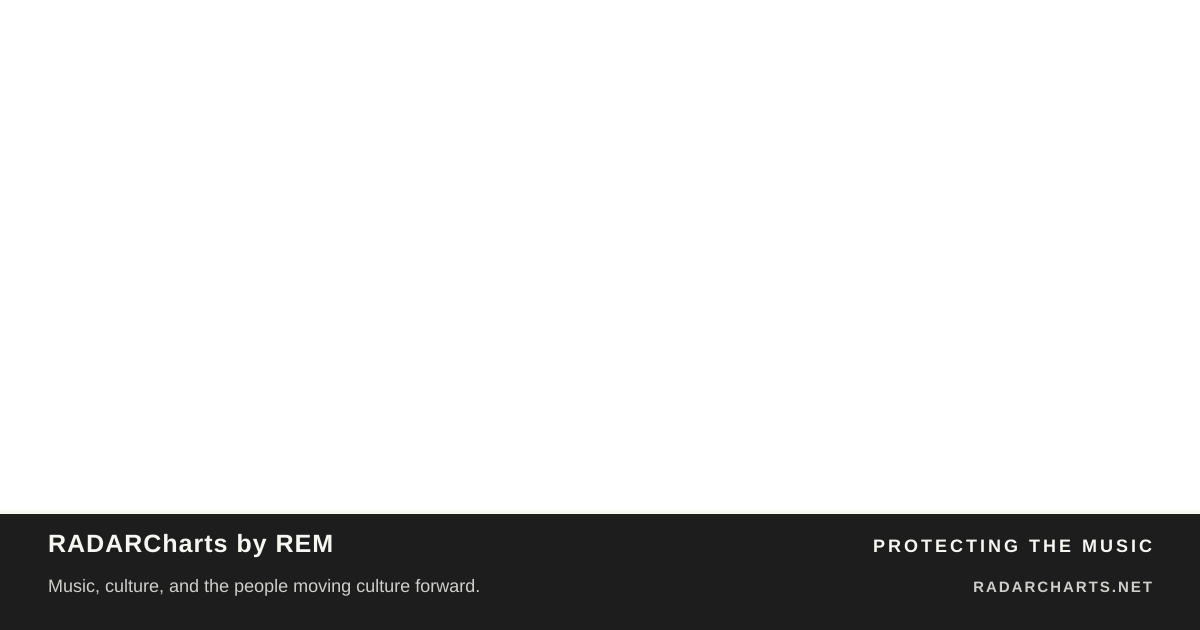
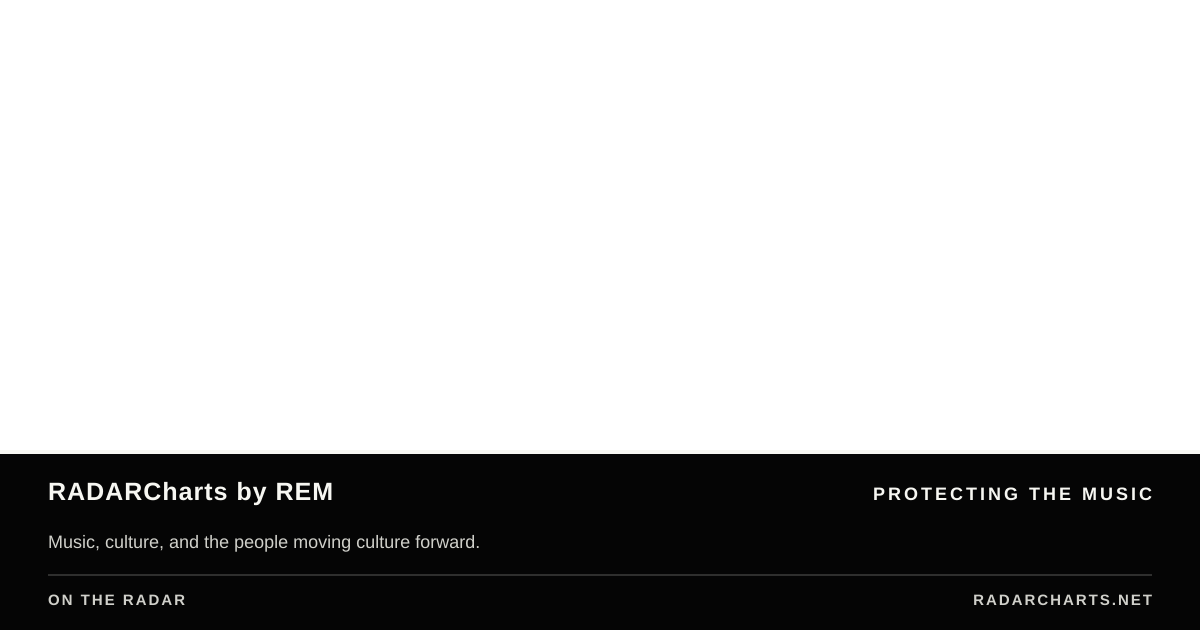
Place RADAR image in social card top panel

diff --git a/SOCIAL_DISTRIBUTION_IMPLEMENTATION.md b/SOCIAL_DISTRIBUTION_IMPLEMENTATION.md
@@ -6,7 +6,7 @@
 - Preview, localhost, WordPress, Supabase, and other unsafe public-host patterns are rejected from production-facing URL resolution.
 - Global Open Graph metadata: title, description, URL, site name, locale, image, dimensions, MIME type, and alt text.
 - X/Twitter metadata: card, title, description, site/creator handle, and image.
-- Social previews use the supplied RADARCharts image as the full 1200×630 background at `/social/radar-background.png`, with a restrained lower information bar only: `RADARCharts by REM`, `PROTECTING THE MUSIC`, the site write-up, and the domain. The editable composite source is `/social/radar-global-card.svg`, and the crawler asset is `/social/radar-global-card.png`. No large title block or migrated WordPress article imagery is used; custom configured social images still take precedence.
+- Social previews use the supplied RADARCharts image as a distinct top image panel at `/social/radar-background.png`, with a separate lower information bar only: `RADARCharts by REM`, `PROTECTING THE MUSIC`, the site write-up, `ON THE RADAR`, and the domain. The editable composite source is `/social/radar-global-card.svg`, and the crawler asset is `/social/radar-global-card.png`. No large title block or migrated WordPress article imagery is used; custom configured social images still take precedence.
 - Studio controls for social card title, description, site name, X/Twitter handle, canonical URL, and custom global social image.
 - Article-specific metadata overrides the global card with the article title, excerpt, canonical URL, and migrated featured image; missing images fall back to the global RADAR card without inheriting another article’s image.
 - Article archive and category pages have their own canonical URLs and social metadata.

diff --git a/reports/RADARSITE_SEO_REMEDIATION_2026-09-29.md b/reports/RADARSITE_SEO_REMEDIATION_2026-09-29.md
@@ -61,7 +61,7 @@ The social fallback is now a dedicated RADARSite-native card, independent of mig
 public/social/radar-global-card.png
 ```
 
-The PNG is **1200×630**, `image/png`, and is now the default metadata fallback. Root Open Graph metadata reports 1200×630 and `image/png`. The final composition uses the supplied RADARCharts image as the background and only a restrained lower write-up bar; the large title block and WordPress article imagery are excluded. Custom configured social images still take precedence.
+The PNG is **1200×630**, `image/png`, and is now the default metadata fallback. Root Open Graph metadata reports 1200×630 and `image/png`. The final composition uses the supplied RADARCharts image as a distinct top image panel and a separate lower write-up bar; the large title block and WordPress article imagery are excluded. Custom configured social images still take precedence.
 
 ### Focused automated QA
 
